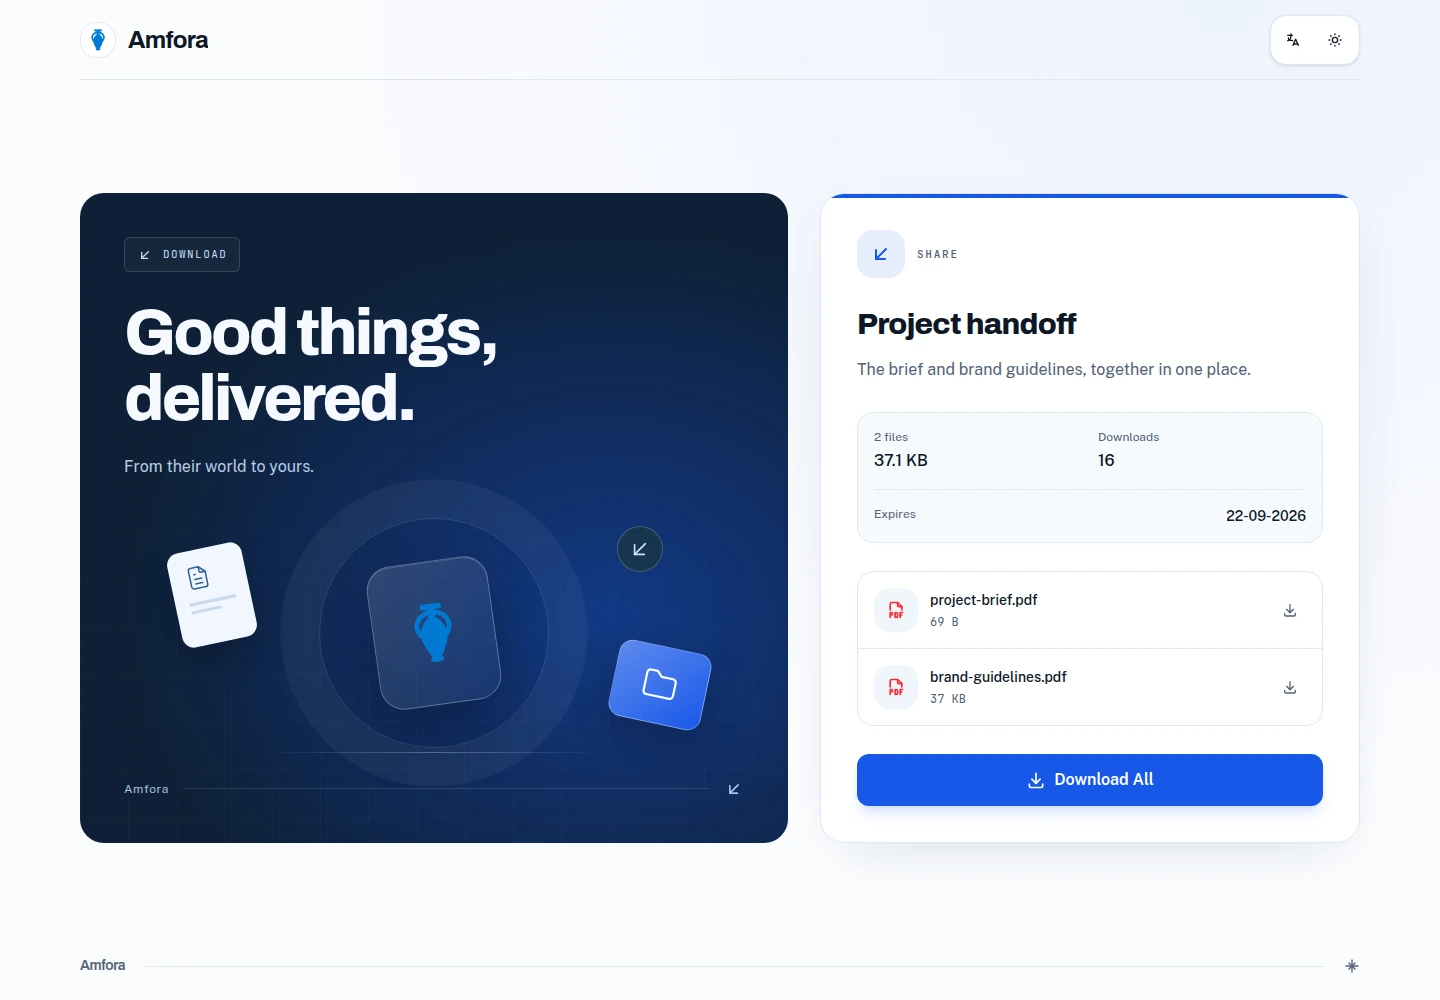
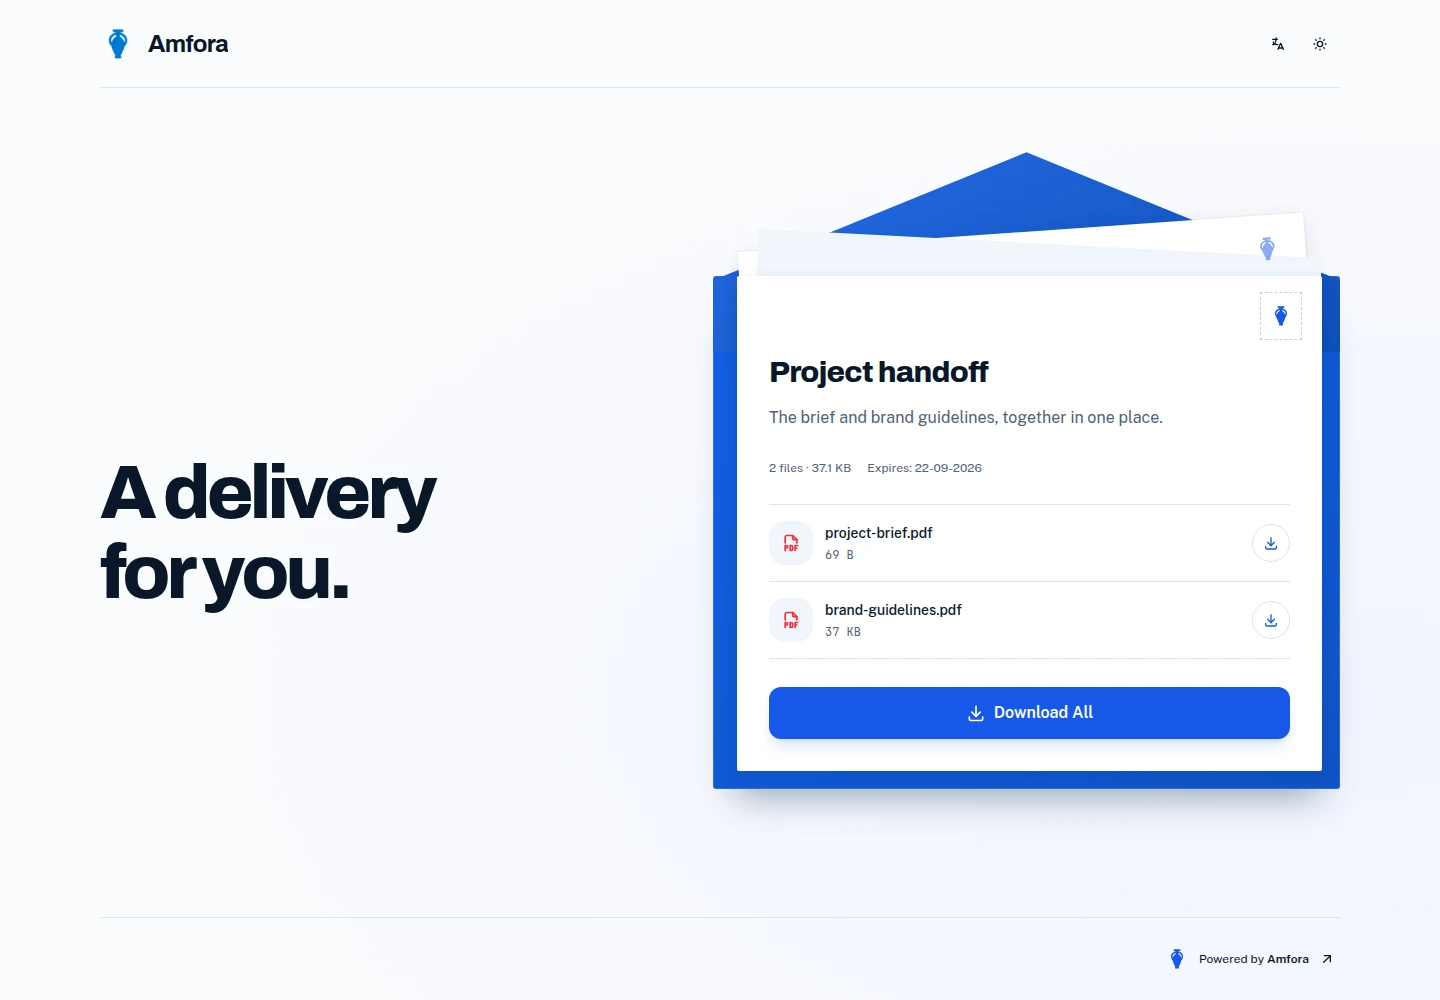
Refresh website and README previews for Blue Post transfers

diff --git a/site/index.html b/site/index.html
@@ -23,7 +23,7 @@
     />
     <meta
       property="og:image"
-      content="https://amfora.solutionmax.net/assets/screenshots/download.webp?v=transfer-refresh-20260917"
+      content="https://amfora.solutionmax.net/assets/screenshots/download.webp?v=blue-post-20260917"
     />
     <link
       rel="preload"
@@ -122,7 +122,7 @@
             </div>
             <a
               class="hero-app-frame"
-              href="/assets/screenshots/download.webp?v=transfer-refresh-20260917"
+              href="/assets/screenshots/download.webp?v=blue-post-20260917"
               target="_blank"
               rel="noopener"
               aria-label="View the full Amfora download screenshot"
@@ -133,7 +133,7 @@
                 ><span aria-hidden="true">↗</span></span
               >
               <img
-                src="/assets/screenshots/download.webp?v=transfer-refresh-20260917"
+                src="/assets/screenshots/download.webp?v=blue-post-20260917"
                 width="1440"
                 height="1000"
                 alt="The Amfora download page, with a branded welcome panel, project files and a clear download action"
@@ -261,7 +261,7 @@
                 <span class="window-dots" aria-hidden="true">● ● ●</span
                 ><span>AMFORA / DOWNLOAD</span
                 ><a
-                  href="/assets/screenshots/download.webp?v=transfer-refresh-20260917"
+                  href="/assets/screenshots/download.webp?v=blue-post-20260917"
                   target="_blank"
                   rel="noopener"
                   aria-label="View full download screenshot"
@@ -269,7 +269,7 @@
                 >
               </div>
               <img
-                src="/assets/screenshots/download.webp?v=transfer-refresh-20260917"
+                src="/assets/screenshots/download.webp?v=blue-post-20260917"
                 width="1440"
                 height="1000"
                 alt="Amfora download page in English showing a Project brief share and a Download button"
@@ -298,7 +298,7 @@
                 <span class="window-dots" aria-hidden="true">● ● ●</span
                 ><span>AMFORA / UPLOAD REQUEST</span
                 ><a
-                  href="/assets/screenshots/upload.webp?v=transfer-refresh-20260917"
+                  href="/assets/screenshots/upload.webp?v=blue-post-20260917"
                   target="_blank"
                   rel="noopener"
                   aria-label="View full upload screenshot"
@@ -306,9 +306,9 @@
                 >
               </div>
               <img
-                src="/assets/screenshots/upload.webp?v=transfer-refresh-20260917"
-                width="1425"
-                height="1007"
+                src="/assets/screenshots/upload.webp?v=blue-post-20260917"
+                width="1440"
+                height="1000"
                 alt="Amfora upload page in English with a file drop area and optional sender details"
                 loading="lazy"
               />
@@ -350,7 +350,7 @@
               <span class="window-dots" aria-hidden="true">● ● ●</span
               ><span>AMFORA / YOUR WORKSPACE</span
               ><a
-                href="/assets/screenshots/dashboard.webp?v=transfer-refresh-20260917"
+                href="/assets/screenshots/dashboard.webp?v=blue-post-20260917"
                 target="_blank"
                 rel="noopener"
                 aria-label="View full workspace screenshot"
@@ -358,9 +358,9 @@
               >
             </div>
             <img
-              src="/assets/screenshots/dashboard.webp?v=transfer-refresh-20260917"
+              src="/assets/screenshots/dashboard.webp?v=blue-post-20260917"
               width="1425"
-              height="1475"
+                height="1475"
               alt="English Amfora dashboard with My Files, My Shares, Receive Files, settings and account navigation"
               loading="lazy"
             />

diff --git a/site/404.html b/site/404.html
@@ -17,7 +17,7 @@
     />
     <meta
       property="og:image"
-      content="https://amfora.solutionmax.net/assets/screenshots/download.webp?v=transfer-refresh-20260917"
+      content="https://amfora.solutionmax.net/assets/screenshots/download.webp?v=blue-post-20260917"
     />
     <link
       rel="preload"

diff --git a/site/docs/index.html b/site/docs/index.html
@@ -23,7 +23,7 @@
     />
     <meta
       property="og:image"
-      content="https://amfora.solutionmax.net/assets/screenshots/download.webp?v=transfer-refresh-20260917"
+      content="https://amfora.solutionmax.net/assets/screenshots/download.webp?v=blue-post-20260917"
     />
     <link
       rel="preload"

diff --git a/site/legal.html b/site/legal.html
@@ -20,7 +20,7 @@
     />
     <meta
       property="og:image"
-      content="https://amfora.solutionmax.net/assets/screenshots/download.webp?v=transfer-refresh-20260917"
+      content="https://amfora.solutionmax.net/assets/screenshots/download.webp?v=blue-post-20260917"
     />
     <link
       rel="preload"

diff --git a/README.md b/README.md
@@ -30,7 +30,7 @@ to storage you control, turn them into a guarded share, or give someone a
 browser link where they can send files back without creating an account.
 
 <p align="center">
-  <img src="site/assets/screenshots/dashboard.webp?v=transfer-refresh-20260917" alt="Amfora workspace dashboard" width="100%" />
+  <img src="site/assets/screenshots/dashboard.webp?v=blue-post-20260917" alt="Amfora workspace dashboard" width="100%" />
 </p>
 
 Amfora is a maintained fork of [Palmr](https://github.com/kyantech/Palmr).
@@ -70,21 +70,21 @@ workspace.
 
 The screenshots show the English interface with demonstration data.
 
-![Amfora dashboard](site/assets/screenshots/dashboard.webp?v=transfer-refresh-20260917)
+![Amfora dashboard](site/assets/screenshots/dashboard.webp?v=blue-post-20260917)
 
 The dashboard brings uploads, shares, receive links, storage usage, and recent
 files into one starting point.
 
-![Amfora send view](site/assets/screenshots/download.webp?v=transfer-refresh-20260917)
+![Amfora send view](site/assets/screenshots/download.webp?v=blue-post-20260917)
 
 A share presents its files and delivery rules in a focused download view.
 
-![Amfora receive view](site/assets/screenshots/upload.webp?v=transfer-refresh-20260917)
+![Amfora receive view](site/assets/screenshots/upload.webp?v=blue-post-20260917)
 
 A receive link gives outside collaborators a simple upload form with the limits
 set by its owner.
 
-![Amfora sign-in](site/assets/screenshots/login.webp?v=transfer-refresh-20260917)
+![Amfora sign-in](site/assets/screenshots/login.webp?v=blue-post-20260917)
 
 The sign-in screen supports password authentication, password recovery, and
 two-factor authentication when it is enabled for the account.
